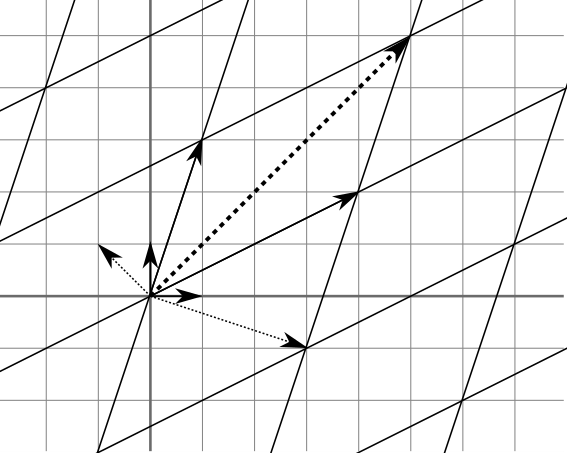
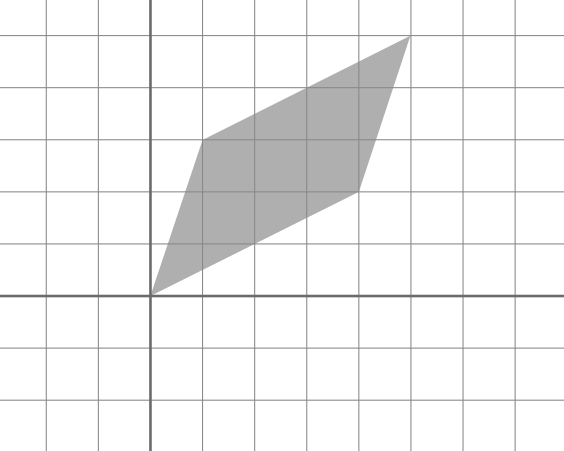
Some more details on linear algebra

diff --git a/x2-appendix-2-linear-algebra.md b/x2-appendix-2-linear-algebra.md
@@ -18,11 +18,15 @@ $$V = \begin{pmatrix} v_1 \\ v_2 \\ \vdots \\ v_n \end{pmatrix}$$
 
 $n$ is also called the dimensions of the vector. The set of all $n$ dimensional vectors of real numbers is noted with $\R^n$.
 
+A special vector, of size $0$, starting and ending in the origin has all elements as $0$.
+
+$$O = \begin{pmatrix} 0 \\ 0 \\ \vdots \\ 0 \end{pmatrix}$$
+
+Figure II.1 shows an example of a two dimensional vector $\begin{pmatrix} a \\ b\end{pmatrix}$, where $a, b \in \R$. An intuition about vectors is that they represent movement, similar to the interpretation in physics.
+
 <p align="center">
 <img src="./img/ii-vector.png" width="300">
 <br><b>Figure II.1: </b>A two dimensional vector, having tail at origin (0, 0) and pointing to (a, b), where a and b are real numbers. Normed vector spaces define length, noted with a grayed grid as the unit steps on the space</p>
-
-Figure II.1 shows an example of a two dimensional vector $\begin{pmatrix} a \\ b\end{pmatrix}$, where $a, b \in \R$. An intuition about vectors is that they represent movement, similar to the interpretation in physics.
 
 Addition of two arrays is defined as pairwise addition of it's elements
 
@@ -43,6 +47,20 @@ This will change the scale (or norm) of the vector but not the direction of the 
 Scaling and addition of multiple vectors is called the **linear combination** of vectors.
 
 $$V = c_1 V_1 + ... + c_k V_k$$
+
+### **Norm of vector**
+
+In normed vector spaces each vector has a norm, which corresponds to length in every day language. Norm is different from the dimensions. We define norm as
+
+$$\|V\| = \sqrt {v_1^2 + v_2^2 + ... + v_n^2}$$
+
+### **Dot product and orthogonal vectors**
+
+The dot product of two vectors of same dimensions $n$ is defined as the sum of pairwise products of their elements.
+
+$$U \cdot V = u_1 v_1 + u_2 v_2 + ... + u_n v_n$$
+
+The dot product is defined to result in $0$ if $U$ and $V$ make a $90 \degree$ angle, i.e $U$ and $V$ are perpendicular vectors. Another word with same meaning is **orthogonal** vector.
 
 ## **Basis and span**
 
@@ -116,7 +134,7 @@ $$I_{n, n} = \begin{pmatrix}
 
 To calculate the linear transformation of a vector we use the transformation matrix and we apply an operation called matrix-vector multiplication defined as:
 
-$$V_t = M_{n,m} \cdot V \\ = \begin{pmatrix}
+$$V_t = M_{n,n} \cdot V \\ = \begin{pmatrix}
   x_{1,1} & x_{1,2} & \cdots & x_{1,n} \\
   x_{2,1} & x_{2,2} & \cdots & x_{2,n} \\
   \vdots  & \vdots  & \ddots & \vdots  \\
@@ -143,14 +161,14 @@ $$\vec i \rightarrow \vec u, \vec j \rightarrow \vec v$$
 
 In Figure II.4 the transformed space can be seen as an elongated diagonally skewed grid of black lines. This transformation is described by a $2 \cdot 2$ matrix, having first column the elements of vector $u$ and second columns with elements of vector $v$.
 
-$$M_{2,2} = \begin{pmatrix}
+$$M_{uv} = \begin{pmatrix}
   u_{1} & v_{1} \\
   u_{2} & v_{2} 
  \end{pmatrix}$$
 
 If we apply the matrix-vector multiplication in the Formula II.2 to the matrix $M_{2,2}$ and $\vec i$, we get $\vec u$:
 
-$$M_{2,2} \cdot \vec i = \begin{pmatrix}
+$$M_{uv} \cdot \vec i = \begin{pmatrix}
   u_{1} & v_{1} \\
   u_{2} & v_{2} 
  \end{pmatrix} \begin{pmatrix} 1 \\ 0 \end{pmatrix} = 
@@ -162,21 +180,190 @@ Similarly we can show that $\vec j \rightarrow \vec v$. $M_{2,2}$ similarly tran
 <img src="./img/ii-matrix-2.png" width="300">
 <br><b>Figure II.5: </b>The transformation applied to a vector</p>
 
-Figure II.5 shows the effect of applying the linear transformation of our example matrix $M_{2,2}$ on vector $\vec t$, resulting in vector $\vec t'$. We can see that the vector space was not only elongated but also flipped around the axis of vector $\vec z$
-
-### **Special transformation in 2D and 3D**
-
-### **Nonsquare matrices**
-
-### **Matrix multiplication**
+Figure II.5 shows the effect of applying the linear transformation of our example matrix $M_{uv}$ on vector $\vec t$, resulting in vector $\vec t'$. We can see that the vector space was not only elongated but also flipped around the axis of vector $\vec z$
 
 ## **Determinant**
 
+A transformation might expand or condense the vector space. The **determinant** of a matrix measures the rate of expansion applied to a vector space by the matrix. 
+
+The standard basis vectors (what we noted with $\vec i_k, k = 1..n$) define a $1 \times 1 \times ... \times 1$ hypercube, where each standard basis vector would be an edge of the cube around the corner where the origin $O$ is. If we apply the linear transformation defined by the matrix to this cube, we get a shape called **parallelotope** (parallelogram in 2D, parallelepiped in 3D). The determinant is the area of the resulting shape after applying the matrix transformation. The determinant will be the same if we apply the transformation to any $n$ dimensional hypercube in the vector space. Any shape that can be approximated with such hypercubes will also scale with the same factor. The determinant is only defined for square matrices.
+
+The determinant can have the following meaning depending on it's value:
+* Determinant of $1$ means there is no change in the area of hypercube when applying the matrix transformation. This is the case for example for rotation and **sheer** operation.
+* A determinant of $0$ of a matrix means the area of the hypercube is scaled down to $0$ with the matrix transformation. This is called **projection**, we reduce one or more dimension by projecting all points of our hyperspace to a lower dimension hyperplane or all the way down the point of origin. This also means that some or all vectors from the matrix columns are linearly dependent, based on how many dimensions we reduce. 
+
+    The number of linearly independent columns (taken as vectors) in a square matrix is called the **rank** of the matrix. Rank is also the number of dimensions of the hyperplane resulting when applying the matrix transformation to our vector space. If the rank is equal to the number of columns, the determinant is not $0$.
+
+    In the case of a projection a line or a hyperplane or the entire hyperspace will be projected to the point of origin $O$. The line, plane or hyperspace that ends up as the origin after the transformation is called the **kernel** of the matrix.  
+* The determinant will be negative for one or any odd number of flips in the hyperspace. An even number of flips restores the space to it's original "side", the same transformation can be achieved trough rotation. The absolute value of a negative determinant will tell the factor the space is being scaled.
+
+The computation itself for the determinant is more complex for each added dimension, but here we will explore the two dimensional case and it's computation.
+
+<p align="center">
+<img src="./img/ii-determinant.png" width="500">
+<br><b>Figure II.6: </b>Determinant of a matrix</p>
+
+In Figure II.6 we can see two vectors of $\vec a = \begin{pmatrix} a_1 \\ a_2 \end{pmatrix}$ and $\vec b = \begin{pmatrix} b_1 \\ b_2 \end{pmatrix}$. They can form the transformation matrix $M_{ab} =  \begin{pmatrix}
+  a_{1} & b_{1} \\
+  a_{2} & b_{2} 
+ \end{pmatrix}$. If we apply $M$ as the transformation matrix to the basis $\{\vec i, \vec j\}$ we get the new basis $\{\vec a, \vec b\}$. The area of the $1 \times 1$ square resting on the $\{\vec i, \vec j\}$ becomes the shaded area resting on $\{\vec a, \vec b\}$. The determinant of the matrix $M$ is the resulting area:
+
+ $$\det(M_{ab}) = \det\begin{pmatrix}
+  a_{1} & b_{1} \\
+  a_{2} & b_{2} 
+ \end{pmatrix} = a_1b_2 - b_1a_2$$
+
+This can be derived looking at the right side of Figure II.6:
+
+$\det(M_{ab}) = (a_1 + b_1)(a_2 + b_2) - 2 {a_1a_2 \over 2}  - 2 {b_1b_2 \over 2} - 2 a_2 b_1$ <br>
+$= a_1a_2 + a_1b_2 + a_2b_1 + b_1b_2 - a_1a_2 - b_1b_2 - 2 a_2 b_1$ <br>
+$= a_1b_2 - a_2b_1$
+
+If we create another matrix with the columns flipped $M_{ba} = \begin{pmatrix}
+  b_{1} & a_{1} \\
+  b_{2} & a_{2} 
+ \end{pmatrix}$ this would not only scale the vector space but also flip as we have seen in the case of $M_{uv}$ flipping the space around $\vec z$, on Figure II.5. In this case the determinant is negative, but absolute value remains the same: 
+ 
+ $$\det(M_{ab}) = -\det(M_{ba})$$
+
+## **Special transformations with square matrices**
+
+Depending on the type of transformation we can define some special matrices
+
+* **Identity matrix** $I_{n,n}$ has values of $1$ on it's diagonal and $0$ on every other, off-diagonal element. We have seen that this matrix preserves all vectors without any transformation.
+
+* **Scalar matrix** has values of $k$ on it's diagonal and $0$ on every other, off-diagonal element. We can express a scalar matrix as $kI_{n,n}$. What this matrix does is scales the vector space by a scale of $k$. For values $k > 1$ the vector space is expanded, for values in the interval $(0, 1)$, the space is shrunk, for negative values of $k$ the space is mirrored around the origin and scaled by a factor of $k$. 
+
+* **Scaling along a single dimension** can be done with a matrix where all elements are same as the identity matrix, but a single element on the diagonal has a scaler value of $k$. This matrix will preserve sizer on all dimension except for the modified dimension, where a scale by $k$ will be applied. Setting a diagonal element to $-1$ will mirror around that dimension.
+
+* **Shear operation** is a matrix which is same as an identity matrix, except a single off-diagonal element, which is a non zero $k$ real number. For example in two dimensions a sheer matrix $S = \begin{pmatrix}
+  1 & k \\
+  0 & 1 
+ \end{pmatrix}$. Shear matrices have a determinant of $1$
+
+* **Orthogonal matrix** is a matrix whose vectors fulfill two conditions:
+    * each vector in the matrix (column) has a norm of 1
+    * all vectors in the matrix are orthogonal to each other (dot product between any two columns are $0$)
+
+   This means each vector has size $1$ and perpendicular to all the other vectors. The identity matrix $I_{n,n}$ and any other matrix which is a rotation or mirroring in $n$ dimensions of the identity matrix are orthogonal. Applying this matrix as a transformation will result in rotation or mirroring or a combination of both.
+
+* **Proper orthogonal matrix** adds one more condition to orthogonal matrix, that the angles of vectors are preserved. This can be verified by a determinant of $1$. Proper orthogonal matrix will apply a rotation around the origin to the vector space without mirroring. As we have mentioned, mirroring even number of times results in a transformation which is same as a rotation.
+
+These transformation can be applied to images as well, where we can calculate the position of each pixel in a resulting image and apply interpolation or smoothing to fill in the gaps. An exception might be rotation, which is mostly done using a system called **quaternions**. Rotation with matrices suffer from a limitation called gimbal locks, where angles can align and lose degrees of freedom. Combined with limited precision of float representation of numbers, results in highly unstable motion. Quaternions use a four dimensional unit hyper-sphere to describe rotation in three dimensions.
+
+## **Nonsquare matrices**
+
+A square matrix with $n$ rows and $n$ columns applies a transformation in an $n$ dimensional vector space. A matrix with $n$ columns and $m$ rows makes a transformation from an $n$ to an $m$ dimensional space. The input is an $n$ dimensional vector and the output is an $m$ dimensional vector.
+
+When $m < n$, it's called a projection. When $m > n$ the result is higher dimension, but because matrices describe linear transformation, the result of the transformation remains an $n$ dimensional hyper plane in the $m$ dimensional space.
+
+Matrix transformation is done similarly to square matrices.
+
+$$V_m = M_{m,n} \cdot V_n \\ = \begin{pmatrix}
+  x_{1,1} & x_{1,2} & \cdots & x_{1,n} \\
+  x_{2,1} & x_{2,2} & \cdots & x_{2,n} \\
+  \vdots  & \vdots  & \ddots & \vdots  \\
+  x_{m,1} & x_{m,2} & \cdots & x_{m,n} 
+ \end{pmatrix} \begin{pmatrix} v_1 \\ v_2 \\ \vdots \\ v_n \end{pmatrix} \\ = \begin{pmatrix}
+  x_{1,1} v_1 + x_{1,2} v_2 + \cdots + x_{1,n} v_n  \\
+  x_{2,1} v_1 + x_{2,2} v_2 + \cdots + x_{2,n} v_n  \\
+  \vdots \\
+  x_{m,1} v_1 + x_{m,2} v_2 + \cdots + x_{m,n} v_n  \\ 
+ \end{pmatrix}$$
+
+## **Matrix multiplication**
+
+Matrices, which describe linear transformations in vector spaces, can be combined. We can express as a single matrix the transformation described by the matrix $B$ happening after a transformation described by the $A$. This is called **composition** of two transformations and the mathematical operation for composition is **matrix multiplication**: $B \cdot A$. When we apply a matrix as a transformation to a vector $AV$ we put the matrix on the right hand side, we can imagine that composition is $B(AV) = BAV$. We can remove the parenthesis because matrix multiplication is associative: the same transformations are being applied in the same order even if we evaluate the multiplications in different orders. This notation of inversed order come from function notations $g(f(x))$
+
+The formula for matrix multiplication uses the formula of matrix vector multiplication (Formula II.2). Each column $k$ in the output matrix, if treated as a vector, is the $k$ th column in the right hand side matrix, also treated as a vector, transformed  (multiplied) by the left hand matrix. Summarized the product formula looks like this:
+
+$$B \cdot A = \begin{pmatrix}
+  b_{1,1} & b_{1,2} & \cdots & b_{1,m} \\
+  b_{2,1} & b_{2,2} & \cdots & b_{2,m} \\
+  \vdots  & \vdots  & \ddots & \vdots  \\
+  b_{p,1} & b_{p,2} & \cdots & b_{p,m} 
+ \end{pmatrix}\begin{pmatrix}
+  a_{1,1} & a_{1,2} & \cdots & a_{1,n} \\
+  a_{2,1} & a_{2,2} & \cdots & a_{2,n} \\
+  \vdots  & \vdots  & \ddots & \vdots  \\
+  a_{m,1} & a_{m,2} & \cdots & a_{m,n} 
+ \end{pmatrix} = \\ = \begin{pmatrix}
+  \sum_{i=1}^m b_{1,i}a_{i,1} & \sum_{i=1}^m b_{1,i}a_{i,2} & \cdots & \sum_{i=1}^m b_{1,i}a_{i,n} \\
+  \sum_{i=1}^m b_{2,i}a_{i,1} & \sum_{i=1}^m b_{2,i}a_{i,2} & \cdots & \sum_{i=1}^m b_{2,i}a_{i,n} \\
+  \vdots  & \vdots  & \ddots & \vdots  \\
+  \sum_{i=1}^m b_{p,i}a_{i,1} & \sum_{i=1}^m b_{p,i}a_{i,2} & \cdots & \sum_{i=1}^m b_{p,i}a_{i,n} 
+ \end{pmatrix}$$
+
+Matrices can be multiplied only if the number of columns of the left hand matrix $m$ is equal to the number of rows to the right hand matrix: the output dimension of the first transformation has to be the same as the input dimension of the second transformation. The input dimension of the product $B \cdot A$ is the number of columns $n$ of the right hand side matrix $A$, the output dimension is the number of rows $p$ in the left hand matrix $B$.
+
+Matrix multiplication is not commutative. For non square matrices, the input-output dimensions need to match up, but for square matrices depending on the order of transformations applied, the result might be different:
+
+$$\exists A, B \in R^{n,n} \rightarrow B A \neq A B$$
+
+In case of square matrices, the determinant of matrix multiplication is equal to the product of the determinants:
+
+$$\det(B \cdot A) = \det(B) \det(A)$$
+
+While the mathematical proof of this is difficult, the intuition behind this is that the rate of change $\det(B \cdot A)$ on the vector space described by the composite transformation $B \cdot A$ is same as the rate of change $\det(B)$ done by the matrix $B$ on the rate of change $\det(A)$ done by $A$.
 
 ## **Inverse matrices**
 
+As matrices describe transformations, the inverse of a transformation can be described by the **inverse matrix**. We note inverse matrix of $M$ with $M^{-1}$:
 
-## **Eigenvalues and eigenvectors**
+$$M^{-1}M = MM^{-1} = I$$
 
+Applying both $M$ and the inverse $M^{-1}$ is equivalent to applying the identity matrix as a transformation.
+
+Projections don't have a defined inverse (there is loss of information, e.g the matrix might project every line to a point, so the inverse would be expanding a point to a line, which cannot be done with a linear operation, so non square matrices don't have definition of inverse matrices. Similarly we have seen that determinant of $0$ also constitutes as projection, so matrices with $\det(M) = 0$ also do not have an inverse matrix defined.
+
+Several highly optimized algorithms have been proposed to calculate the inverse. In many cases, the inverse matrix is not even calculated, rather the operation done with the inverse matrix (e.g matrix vector multiplication) is calculated or approximated trough an iterative process. This approach saves computation as well as memory for large matrices.
+
+## **Change of basis**
+
+In the same way we applied a matrix as a transformation to a vector in a vector space, we can apply a matrix as a transformation to the base of the vector space as well. Transforming the vector to another basis is done the same way as applying transformation to the vector.
+
+$$U = B \cdot V$$
+
+where $V$ is the vector, $B$ is the transformation matrix and $U$ is the vector $V$ under the basis $B$ (it's the same equation as transforming $V$ by $B$, but different interpretation). 
+
+In some cases transforming a vector under a specific base is more simple than in another base. A common process in linear algebra is to transform a vector to another base (noted with $B$), apply a specific transformation under the base of $B$ (noted with $M_B$), and reverse the base transformation. A transformation can be reversed using the inverse matrix $B^{-1}$:
+
+$$U = B^{-1} \cdot M_B \cdot B \cdot V$$
+
+In the above there are the following steps, which we can read right to left:
+* Transform $V$ to another basis with $B$
+* Apply matrix transformation using $M_B$
+* Reverse basis transformation with $B^{-1}$
+
+All the above steps are simple matrix multiplications.
+
+## **Eigenvectors and eigenvalues**
+
+The line a non-zero vector rests on is called the **span** of the vector. When we apply a matrix transformation to all vectors of a vector space, most vectors would change direction where they point, we say they change their span.
+
+**Eigenvectors** of a matrix $M$ are vectors $V$ of the vector space that do not change their span during vector transformation. The rate of change $\lambda$ of the eigenvectors during the matrix transformation is called **eigenvalue** of the eigenvector. The mathematical relationship can be expressed as:
+
+$$MV = \lambda V$$
+
+All solutions of the above equation for $V$ are the eigenvectors and solutions of $\lambda$ are the eigenvalues. We can rearrange the equation by introducing the identity matrix on the right side and moving everything to the left:
+
+$$MV - I \lambda V = 0 \\
+(M- I\lambda) V = 0$$
+
+Writing the above in detail:
+
+$$\begin{pmatrix}
+  m_{1,1} - \lambda & m_{1,2} & \cdots & m_{1,n} \\
+  m_{2,1} & m_{2,2} - \lambda & \cdots & m_{2,n} \\
+  \vdots  & \vdots  & \ddots & \vdots  \\
+  m_{n,1} & m_{n,2} & \cdots & m_{n,n} - \lambda 
+ \end{pmatrix} \begin{pmatrix} v_{1} \\  v_{2} \\  \vdots\\ v_{n} \end{pmatrix}
+= \begin{pmatrix} 0 \\ 0 \\  \vdots\\ 0 \end{pmatrix} $$
+
+
+
+* When we apply a scaling matrix, all vectors of a vector space will be eigenvectors
+
+## **Spectral decomposition**
 
 ## **Singular value decomposition**
